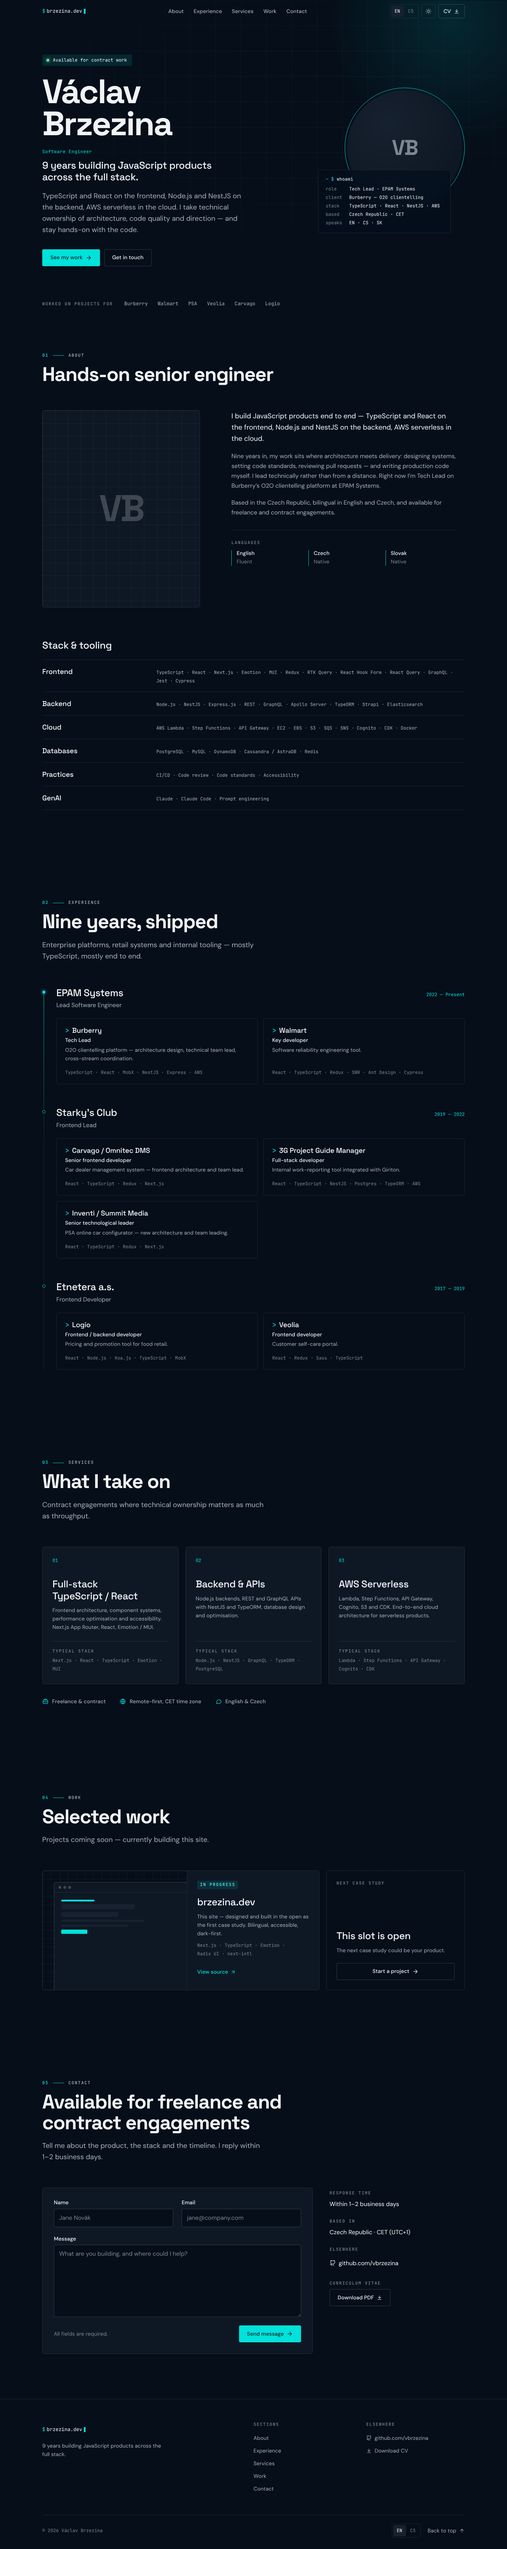
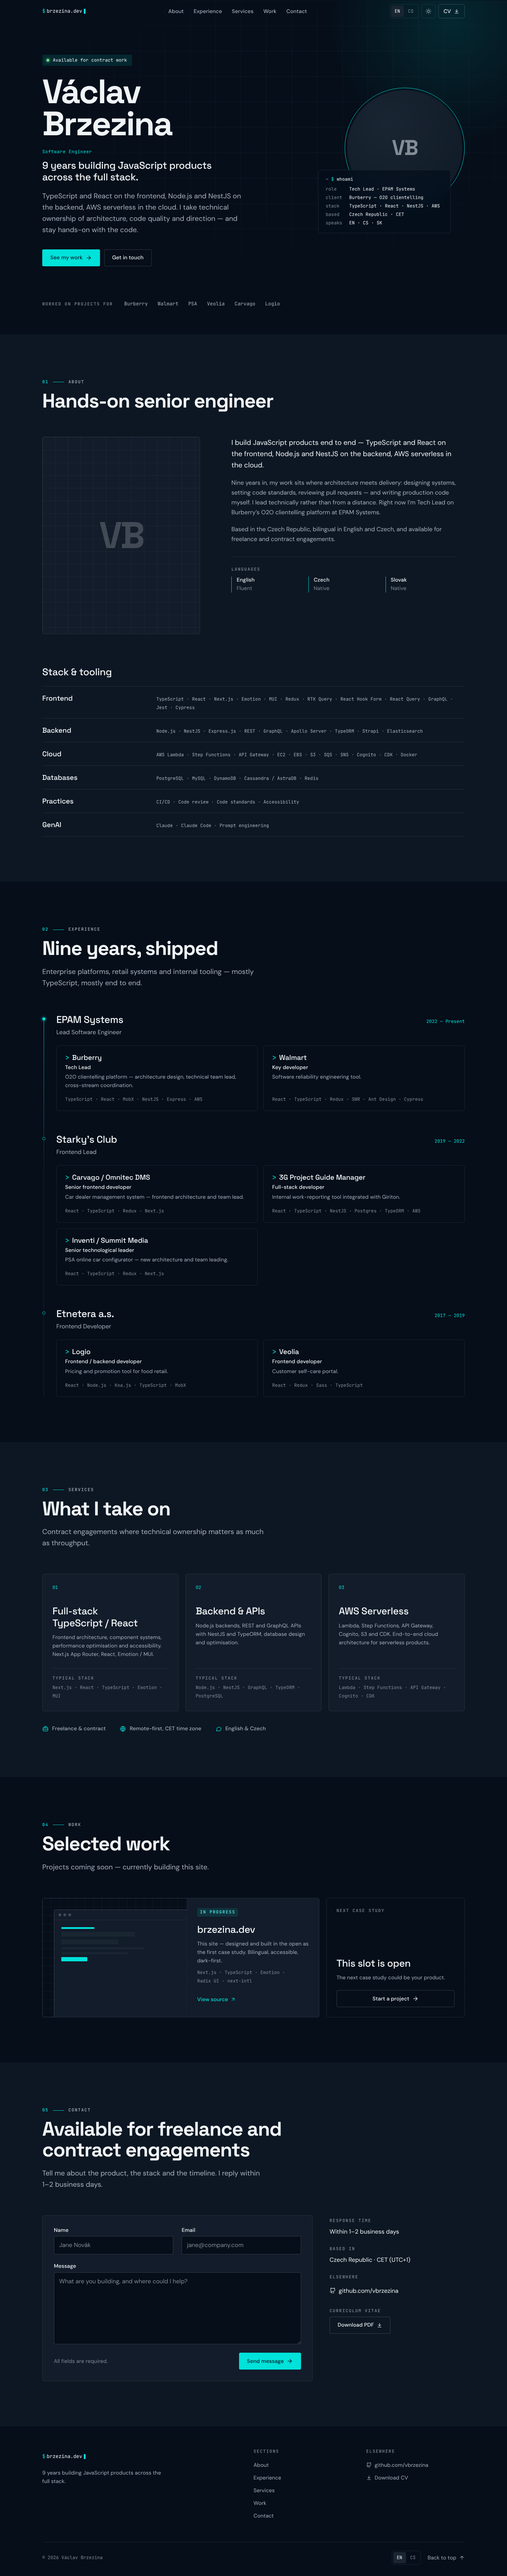
feat(ui): divide sections with alternating tonal bands
- New --color-band token between canvas and surface; every even section
  in <main> (About, Services, Contact) sits on it — hard edges, no rules
- Dark ladder: band 0.20, surface 0.225, raised 0.26, tertiary text 0.64
- Light: band 0.958, raised 0.935, accent 0.52 → 0.50 so teal text stays
  AA on the band
- Hero gets bottom padding so the client strip doesn't sit on the edge;
  footer drops its top rule (the tone change divides it)
- Spec, ADR-007, case-study log and screenshots updated

Claude-Session: https://claude.ai/code/session_013mW6ZWY6digWVBj5YtAxDN

diff --git a/src/styles/tokens.css b/src/styles/tokens.css
@@ -8,14 +8,17 @@
 :root[data-theme='dark'] {
   color-scheme: dark;
 
+  /* Depth ladder: canvas < band < surface < raised. Bands alternate behind sections;
+     cards (surface) always stand out on either canvas or band. */
   --color-canvas: oklch(0.16 0.028 255);
-  --color-surface: oklch(0.205 0.03 255);
-  --color-raised: oklch(0.245 0.03 255);
+  --color-band: oklch(0.2 0.03 255);
+  --color-surface: oklch(0.225 0.03 255);
+  --color-raised: oklch(0.26 0.03 255);
   --color-material: oklch(0.16 0.028 255 / 72%);
 
   --color-fg: oklch(0.965 0.006 250);
   --color-fg-secondary: oklch(0.76 0.02 250);
-  --color-fg-tertiary: oklch(0.62 0.02 250);
+  --color-fg-tertiary: oklch(0.64 0.02 250);
 
   --color-accent: oklch(0.82 0.15 190);
   --color-accent-hover: oklch(0.87 0.13 190);
@@ -34,18 +37,20 @@
   color-scheme: light;
 
   --color-canvas: oklch(0.978 0.006 106);
+  --color-band: oklch(0.958 0.008 106);
   --color-surface: oklch(0.995 0.003 106);
-  --color-raised: oklch(0.955 0.008 106);
+  --color-raised: oklch(0.935 0.009 106);
   --color-material: oklch(0.978 0.006 106 / 78%);
 
   --color-fg: oklch(0.19 0.03 250);
   --color-fg-secondary: oklch(0.42 0.02 250);
   --color-fg-tertiary: oklch(0.52 0.02 250);
 
-  --color-accent: oklch(0.52 0.12 205);
+  /* 0.50 (not 0.52) keeps teal text ≥ 4.5:1 on the band. */
+  --color-accent: oklch(0.5 0.12 205);
   --color-accent-hover: oklch(0.46 0.12 205);
   --color-on-accent: oklch(0.99 0 0);
-  --color-accent-subtle: oklch(0.52 0.12 205 / 10%);
+  --color-accent-subtle: oklch(0.5 0.12 205 / 10%);
 
   --color-border: oklch(0.88 0.01 250);
   --color-border-strong: oklch(0.8 0.01 250);

diff --git a/src/components/layout/Section.ts b/src/components/layout/Section.ts
@@ -1,8 +1,16 @@
 import styled from '@emotion/styled';
 
-/** Page section: one continuous canvas — sections are separated by space and the eyebrow, not by rules. */
+/**
+ * Page section. Sections are divided by tone, not rules: every even <section> in <main>
+ * sits on a band one step lighter (dark) / darker (light) than the canvas. The hero is
+ * section 1, so About, Services and Contact get bands — and reordering keeps the rhythm.
+ */
 export const Section = styled.section`
   position: relative;
   padding-block: ${({ theme }) => theme.layout.sectionPadding};
   scroll-margin-top: 5.5rem;
+
+  main > &:nth-of-type(even) {
+    background: ${({ theme }) => theme.colors.band};
+  }
 `;

diff --git a/src/components/sections/Hero.tsx b/src/components/sections/Hero.tsx
@@ -16,6 +16,7 @@ const HeroSection = styled.section`
   overflow: hidden;
   margin-top: calc(-1 * ${({ theme }) => theme.layout.navHeight});
   padding-top: calc(${({ theme }) => theme.layout.navHeight} + clamp(3rem, 2rem + 4vw, 6rem));
+  padding-bottom: clamp(3rem, 2rem + 3vw, 5rem);
 `
 
 /** 72px technical grid, masked so it dissolves before the edges. */

diff --git a/src/components/layout/SiteFooter.tsx b/src/components/layout/SiteFooter.tsx
@@ -8,7 +8,6 @@ import { type } from '@/styles/typography';
 import { Container } from './Container';
 
 const Footer = styled.footer`
-  border-top: 1px solid ${({ theme }) => theme.colors.border};
   padding-block: 4rem 2rem;
 `;
 

diff --git a/src/app/theme.ts b/src/app/theme.ts
@@ -5,6 +5,7 @@
 
 const colors = {
   canvas: 'var(--color-canvas)',
+  band: 'var(--color-band)',
   surface: 'var(--color-surface)',
   raised: 'var(--color-raised)',
   material: 'var(--color-material)',

diff --git a/docs/design/redesign-2026-10.md b/docs/design/redesign-2026-10.md
@@ -48,14 +48,15 @@ All colours are CSS custom properties in `src/styles/tokens.css`, switched by `h
 
 | Token | Dark | Light | Use |
 |-------|------|-------|-----|
-| `--color-canvas` | `oklch(0.16 0.028 255)` | `oklch(0.978 0.006 106)` | Page background — one canvas, no striping |
-| `--color-surface` | `oklch(0.205 0.03 255)` | `oklch(0.995 0.003 106)` | Cards, form panel |
-| `--color-raised` | `oklch(0.245 0.03 255)` | `oklch(0.955 0.008 106)` | Hover/pressed fills, selected segment |
+| `--color-canvas` | `oklch(0.16 0.028 255)` | `oklch(0.978 0.006 106)` | Page background (hero, odd sections, footer) |
+| `--color-band` | `oklch(0.20 0.03 255)` | `oklch(0.958 0.008 106)` | Alternating section band — divides sections by tone |
+| `--color-surface` | `oklch(0.225 0.03 255)` | `oklch(0.995 0.003 106)` | Cards, form panel — always a step off both canvas and band |
+| `--color-raised` | `oklch(0.26 0.03 255)` | `oklch(0.935 0.009 106)` | Hover/pressed fills, selected segment |
 | `--color-material` | canvas / 72% | canvas / 78% | Translucent nav + sheet (with blur) |
 | `--color-fg` | `oklch(0.965 0.006 250)` | `oklch(0.19 0.03 250)` | Primary text — 17.5:1 / 17.3:1 |
 | `--color-fg-secondary` | `oklch(0.76 0.02 250)` | `oklch(0.42 0.02 250)` | Body copy — 9.1:1 / 7.9:1 |
-| `--color-fg-tertiary` | `oklch(0.62 0.02 250)` | `oklch(0.52 0.02 250)` | Meta, stack lists — 5.3:1 / 5.2:1 |
-| `--color-accent` | `oklch(0.82 0.15 190)` | `oklch(0.52 0.12 205)` | Primary action, active state — 11.9:1 / 4.7:1 |
+| `--color-fg-tertiary` | `oklch(0.64 0.02 250)` | `oklch(0.52 0.02 250)` | Meta, stack lists — ≥ 4.8:1 on every background |
+| `--color-accent` | `oklch(0.82 0.15 190)` | `oklch(0.50 0.12 205)` | Primary action, active state — ≥ 10.5:1 / ≥ 4.8:1 on every background (light was 0.52; darkened so teal text holds AA on the band) |
 | `--color-accent-hover` | `oklch(0.87 0.13 190)` | `oklch(0.46 0.12 205)` | Primary hover |
 | `--color-on-accent` | `oklch(0.18 0.03 255)` | `oklch(0.99 0 0)` | Text on accent — 11.6:1 / 4.9:1 |
 | `--color-accent-subtle` | accent / 12% | accent / 10% | Status pill, ghost hover, focus halo |
@@ -65,7 +66,7 @@ All colours are CSS custom properties in `src/styles/tokens.css`, switched by `h
 | `--color-success` | `oklch(0.80 0.15 150)` | `oklch(0.52 0.13 150)` | Availability dot, sent state |
 | `--color-error` | `oklch(0.72 0.16 25)` | `oklch(0.52 0.18 25)` | Field errors |
 
-All text pairs pass WCAG 2.1 AA (contrast ratios computed from the sRGB conversions; listed dark / light against canvas).
+All text pairs pass WCAG 2.1 AA on canvas, band **and** surface (computed from the sRGB conversions, confirmed with axe in both themes). Depth ladder: canvas < band < surface < raised (dark), mirrored in light.
 
 `prefers-contrast: more` → `--color-border` takes the `--color-border-strong` value and `--color-fg-tertiary` takes `--color-fg-secondary`.
 
@@ -92,7 +93,7 @@ Implemented as Emotion `css` mixins in `src/styles/typography.ts`. Body text mea
 ### 3.3 Space, radius, layout
 
 - **Spacing scale:** 4 · 8 · 12 · 16 · 24 · 32 · 48 · 64 · 96 · 128 px (`theme.space`).
-- **Section rhythm:** `padding-block: clamp(5rem, 3rem + 6vw, 8rem)`; sections are separated by space and the eyebrow alone — no rules between sections, no background changes. The only full-width rule is the footer's top edge.
+- **Section rhythm:** `padding-block: clamp(5rem, 3rem + 6vw, 8rem)`; sections are divided by **tone**, not rules: every even `<section>` in `<main>` sits on `--color-band` (About, Services, Contact), the rest on canvas. Hard edges, no hairlines — the same device as apple.com's alternating bands. Because the band sits between canvas and surface, cards stay distinct on either. Alternation is positional (`nth-of-type`), so reordering sections keeps the rhythm.
 - **Container:** 75rem max, gutter `clamp(1.25rem, 4vw, 2.5rem)`.
 - **Grid:** 12 columns, 1.5rem gap desktop. Breakpoints: `sm 640`, `md 900` (nav collapses below this), `lg 1100`.
 - **Radius:** `4px` for controls (buttons, inputs, pills, segments); `6px` for large surfaces (cards, panels, sheet). Corners stay sharp — the 2px step only makes larger surfaces read a little heavier.

diff --git a/.scratch/brzezina-dev-portfolio/case-study-log.md b/.scratch/brzezina-dev-portfolio/case-study-log.md
@@ -135,6 +135,15 @@ Running record of decisions, alternatives considered, and wrong turns for the br
 
 ---
 
+### 2026-10-12 — Sections divided by tonal bands
+
+**Decision:** Every even section sits on a new `--color-band` (About, Services, Contact); hard edges, no rules. Depth ladder canvas < band < surface < raised; light accent darkened 0.52 → 0.50 and dark tertiary text lightened 0.62 → 0.64 so all text stays AA on the band.
+**Alternatives considered:** Hairlines (tried; doubled up in the hero and read as clutter); no division (tried; the page became one undifferentiated scroll); section title bars / giant numerals / gradient fades (more elements to solve a rhythm problem).
+**Why:** Tone divides without drawing anything, so nothing can double up — it's how apple.com bands its pages. The blueprint's alternation failed only because its band colour equalled its card colour; a dedicated band token between canvas and surface fixes that. A first pass at dark band L 0.185 measured just ~5 RGB steps off canvas — invisible on average panels — so it went to 0.20.
+**Wrong turn / lesson:** "No lines" over-corrected "weird lines". The owner was right that sections need a boundary; the fix was a different *kind* of boundary, not none.
+
+---
+
 ### 2026-10-12 — Theme reset on locale switch: React owns `<html>`
 
 **Decision:** Removed `data-theme` from the server-rendered `<html>`; dark is the CSS default on `:root`. The colour-scheme provider re-applies the stored theme in a layout effect on every mount.

diff --git a/docs/adr/007-design-system.md b/docs/adr/007-design-system.md
@@ -90,6 +90,6 @@ The identity above stands (dark-first, navy + one teal accent, the three typefac
 - **Radius:** 4px for controls, 6px for large surfaces (cards, panels, sheet).
 - **Eyebrow:** number and rule stay teal; the section name moves to `fg-secondary` so the accent marks only state and action.
 - **Nav active state:** a 1px accent rule under the label — the same mark as the eyebrow rule.
-- **Section separation:** space and the eyebrow only; no hairlines between sections.
+- **Section separation:** alternating tonal bands (`--color-band`) with hard edges; no hairlines between sections.
 - **Depth:** still no content shadows; the nav and mobile sheet use a translucent blurred material that appears only once content scrolls beneath it.
 - **Boxed skill tags** are replaced by dot-separated mono lists.
